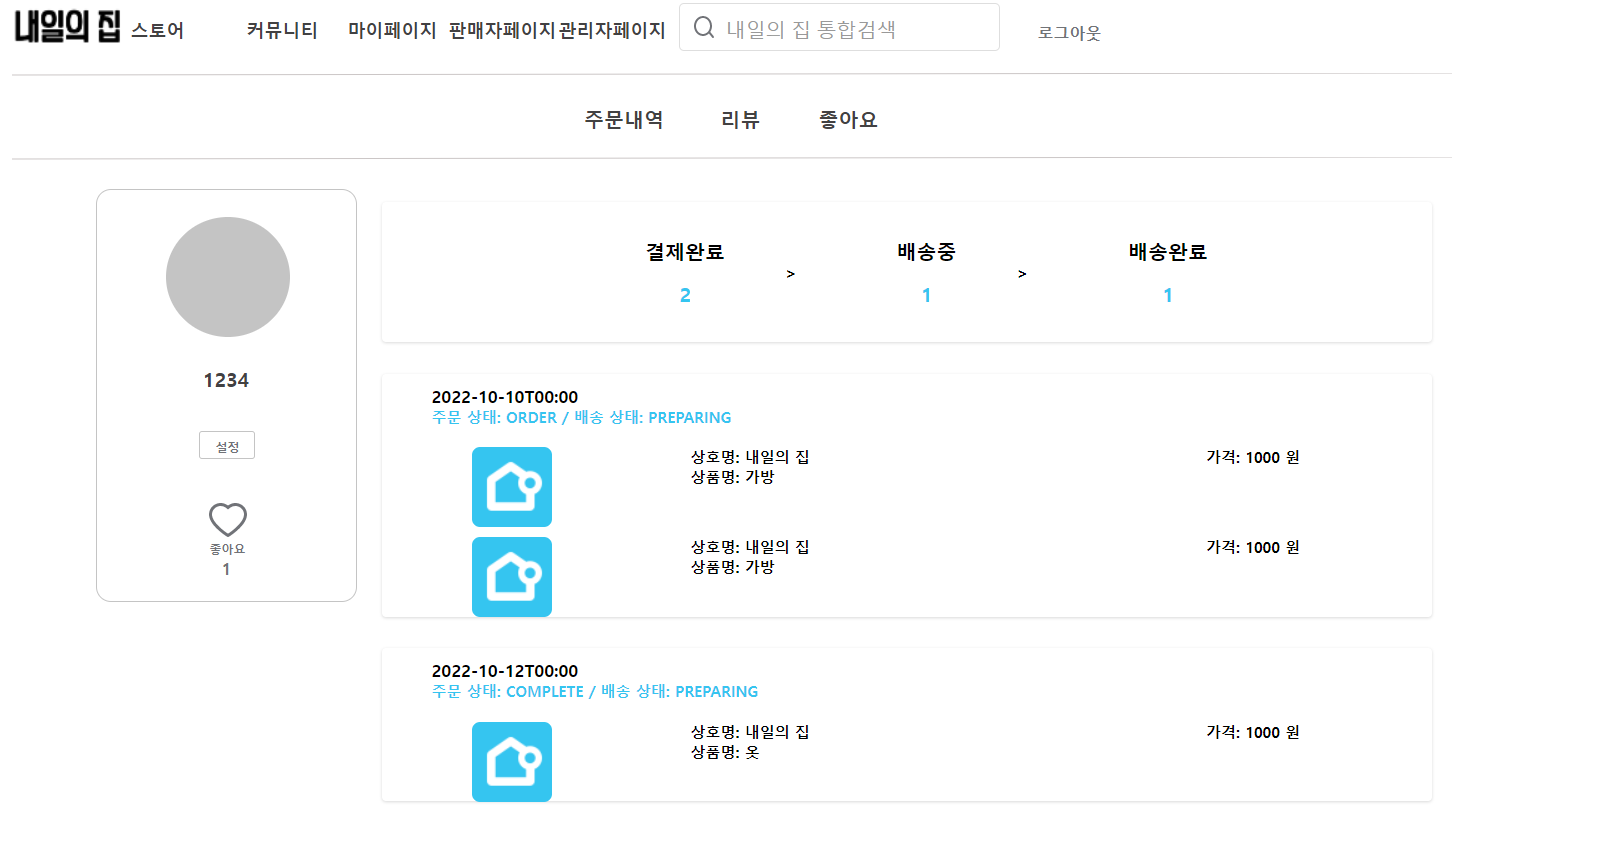
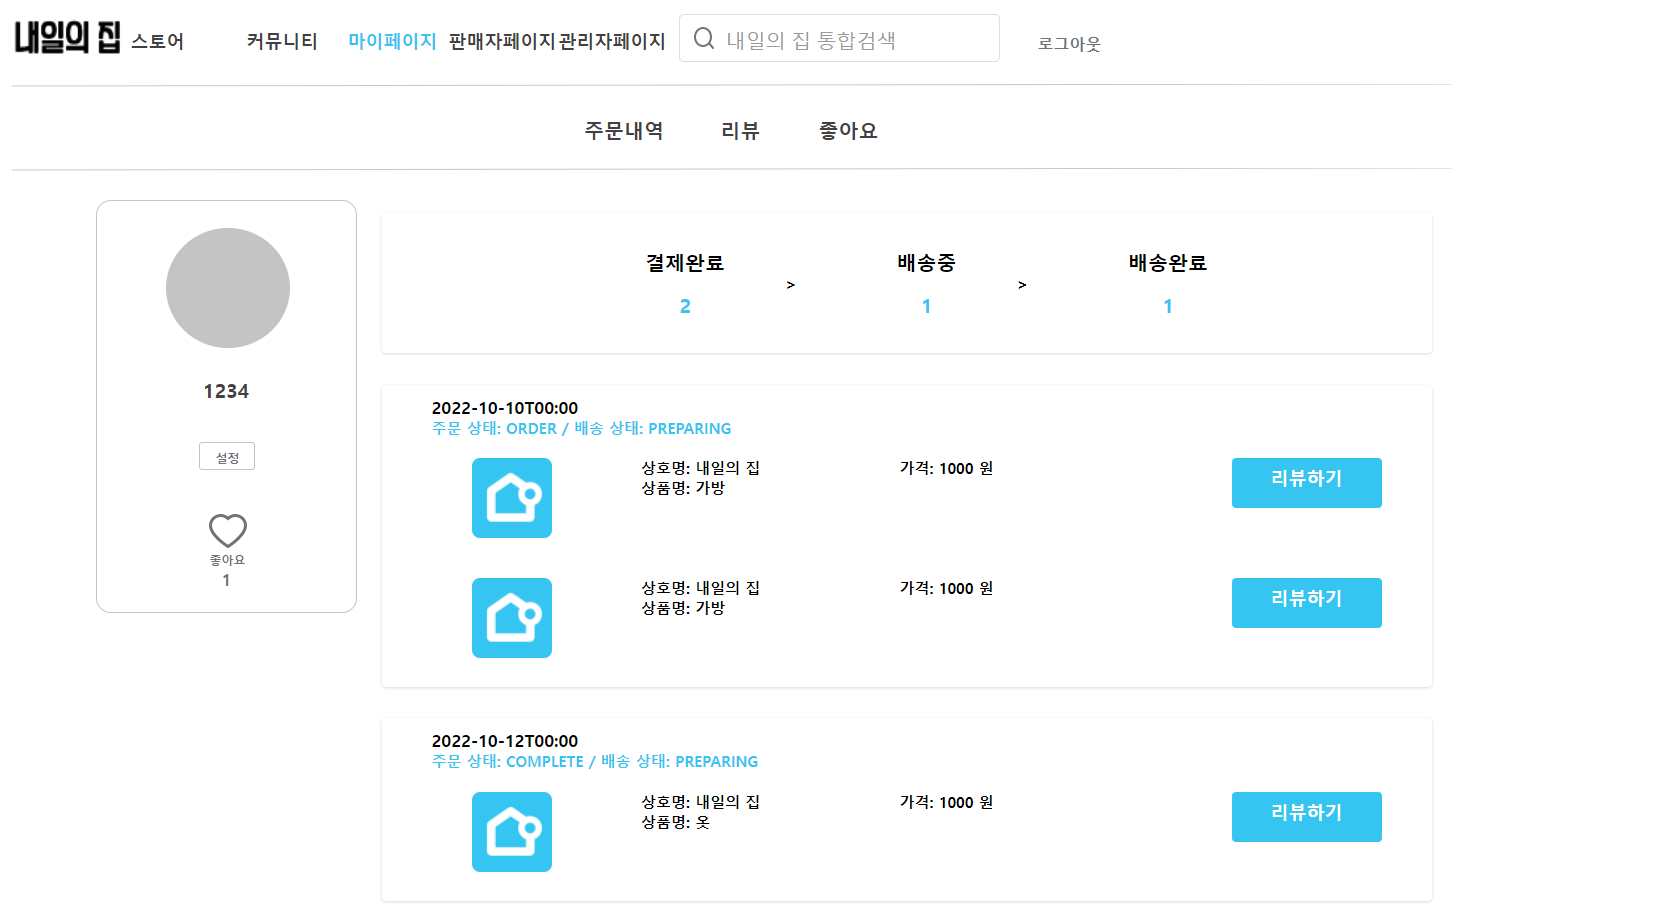
feat: add 'goReview' in mypage

diff --git a/start/start/src/main/resources/templates/consumer/mypage/orders.html b/start/start/src/main/resources/templates/consumer/mypage/orders.html
@@ -52,20 +52,27 @@
                                      height="80">
                             </ul>
 
-                            <ul th:if="${orderitem.item.uploadFile != null}" style="float: left; margin-right: 10%;">
+                            <ul th:if="${orderitem.item.uploadFile != null}" style="float: left; margin-right: 5%;">
                                 <img id="uploadFile" src="http://localhost:8080/upload/default_img.png" width="80"
                                      height="80">
                                 <!--<td><img th:src="|http://localhost:8080/upload/${orderitem.item.uploadFile.uploadFileName}.png|" width="80" height="80"></td>-->
                             </ul>
 
-                            <ul style="float: left; margin-right: 40%;">
+                            <ul style="float: left; margin-right: 10%;">
                                 <p th:text="|상호명: ${orderitem.item.seller.storeName}|"> 상호명</p>
                                 <p th:text="|상품명: ${orderitem.item.name}|"> 상품 이름</p>
                             </ul>
 
-                            <ul style=" padding-bottom: 5%;" ;>
+                            <ul style="float: left; margin-right: 30%;">
                                 <p th:text="|가격: ${orderitem.orderPrice} 원|">가격</p>
                                 <!-- <p th:text="|주문 수량: ${orderitem.count}| 개"> 개수</p> -->
+                            </ul>
+
+
+                            <ul th:if="${order.delivery.reviewYn == false}" style="padding-bottom: 10%;">
+                                <a id="goReview" href="#"
+                                   th:href="@{/user/{seller_id}/reviews (seller_id=${consumer.id})}"
+                                   role="button">리뷰하기</a>
                             </ul>
                         </ul>
                     </div>

diff --git a/start/start/src/main/resources/static/css/consumer/mypage/orders.css b/start/start/src/main/resources/static/css/consumer/mypage/orders.css
@@ -94,3 +94,23 @@
     font-size: 20px;
     color: #35c5f0;
 }
+
+#goReview {
+  position: absolute;
+  left: 850px;
+  width:150px;
+  height:50px;
+  font-family:"Gothic A1 ", "Gothic A1", sans-serif;
+  font-weight:800;
+  font-style:normal;
+  font-size:18px;
+  color:#ffff;
+  text-align: center;
+  line-height: 40px;
+  background:inherit;
+  background-color:rgba(53, 197, 240, 1);
+  display: block;
+  text-decoration: none;
+  border-radius: 4px;
+
+}

diff --git a/start/start/src/main/resources/static/css/admin/show_sellers.css b/start/start/src/main/resources/static/css/admin/show_sellers.css
@@ -128,7 +128,6 @@ border-radius:5px;
 -webkit-box-shadow:none;
 display: block;
 text-decoration: none;
-
 }
 
 #notapproved {

diff --git a/start/start/src/main/java/com/house/start/controller/Consumer/ConsumerMypageController.java b/start/start/src/main/java/com/house/start/controller/Consumer/ConsumerMypageController.java
@@ -2,10 +2,11 @@ package com.house.start.controller.Consumer;
 
 import com.house.start.controller.session.SessionConstants;
 import com.house.start.domain.Consumer;
+import com.house.start.domain.Like;
 import com.house.start.domain.Order;
 import com.house.start.domain.Review;
-import com.house.start.repository.ConsumerRepository;
 import com.house.start.service.ConsumerService;
+import com.house.start.service.LikeService;
 import com.house.start.service.OrderService;
 import com.house.start.service.ReviewService;
 import lombok.RequiredArgsConstructor;
@@ -31,6 +32,7 @@ public class ConsumerMypageController {
     private final ConsumerService consumerService;
     private final OrderService orderService;
     private final ReviewService reviewService;
+    private final LikeService likeService;
 
     /**
      * 마이페이지 처음 페이지
@@ -104,7 +106,7 @@ public class ConsumerMypageController {
             Consumer consumer = consumerService.findConsumerById(consumer_id);
             model.addAttribute("consumer", consumer);
 
-            // orders 데이터
+            // review 데이터
             List<Review> reviewList = reviewService.findReviewsByConsumer(consumer);
             model.addAttribute("reviewList", reviewList);
             return "consumer/mypage/reviews";
@@ -130,10 +132,10 @@ public class ConsumerMypageController {
             Consumer consumer = consumerService.findConsumerById(consumer_id);
             model.addAttribute("consumer", consumer);
 
-            // orders 데이터
-            List<Review> reviewList = reviewService.findReviewsByConsumer(consumer);
-            model.addAttribute("reviewList", reviewList);
-            return "consumer/mypage/reviews";
+            // likes 데이터
+            List<Like> likesList = likeService.findLikesByConsumer(consumer);
+            model.addAttribute("likesList", likesList);
+            return "consumer/mypage/likes";
         } else {
             // 판매자나 관리자인 경우
             return "err/denyPage";

diff --git a/채영.md b/채영.md
@@ -28,4 +28,7 @@
 - 마이페이지/주문목록
      <img src='img/주문목록_mypage.PNG' />
 
+- 마이페이지/리뷰목록
+     <img src='img/리뷰목록_mypage.PNG' />
+
 ### 회의 질문
